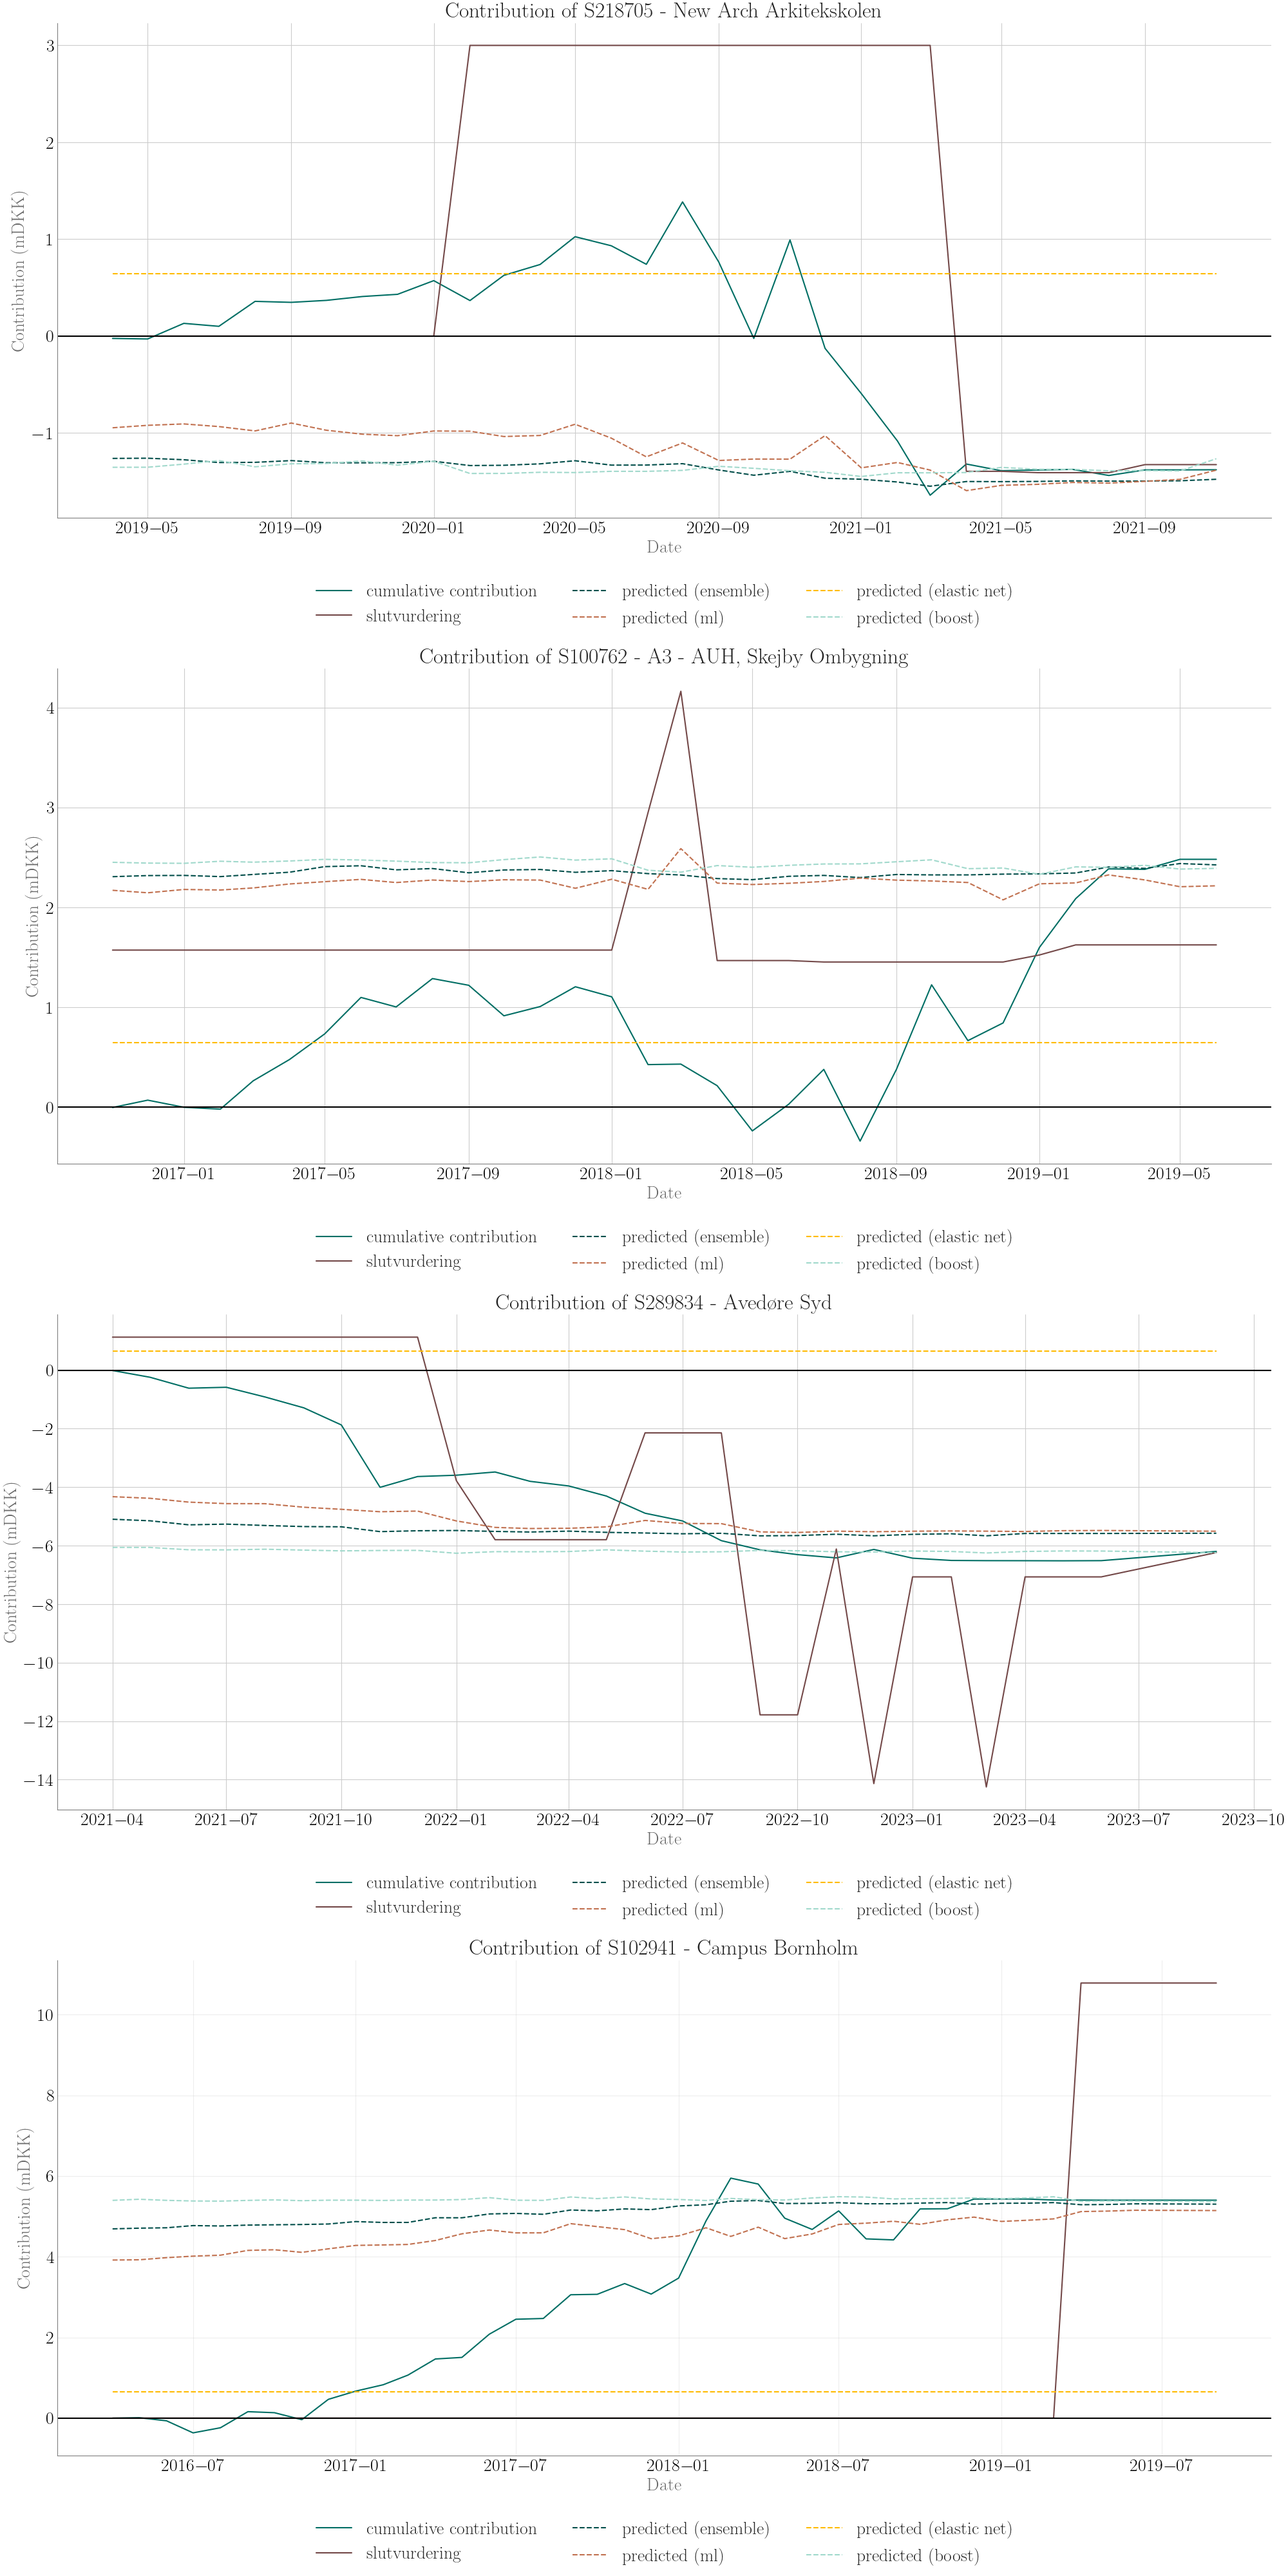
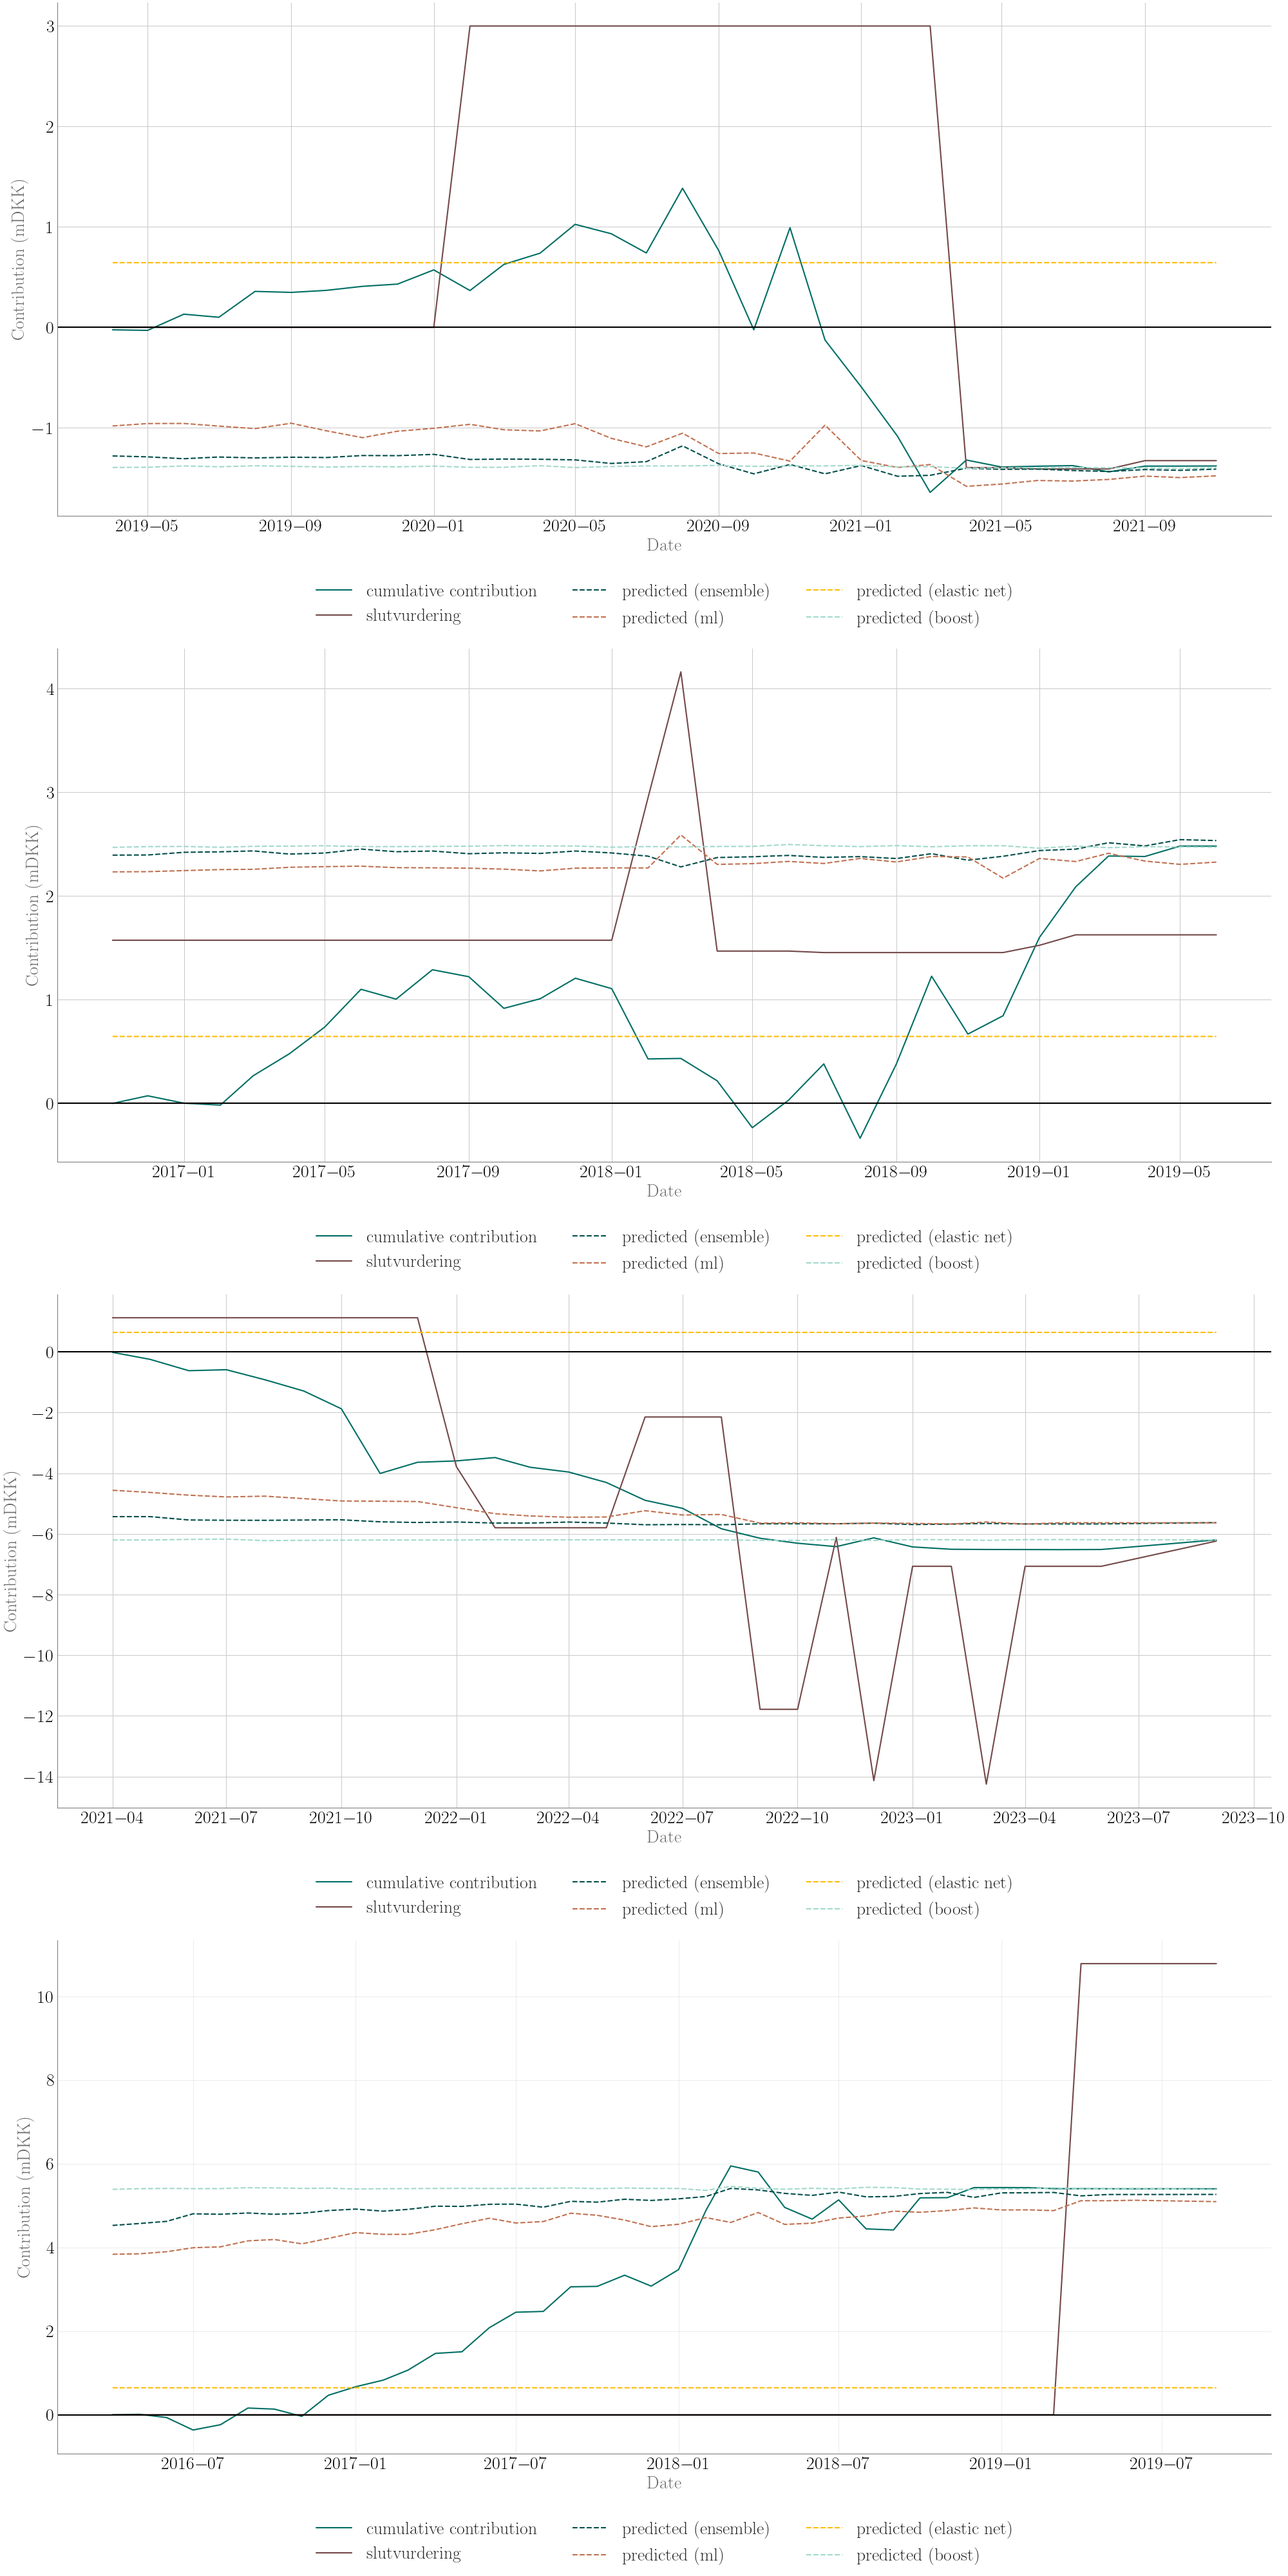
....

diff --git a/Data/Scripts/4_ML.py b/Data/Scripts/4_ML.py
@@ -675,7 +675,7 @@ for i, sJobNo in enumerate(lJob):
     ax[i].axhline(y=0, color='black', linestyle='-')
     ax[i].set_xlabel('Date')
     ax[i].set_ylabel('Contribution (mDKK)')
-    ax[i].set_title(f'Contribution of {sJobNo} - {dfDesc[dfDesc["job_no"] == sJobNo]["description"].values[0]}')
+#    ax[i].set_title(f'Contribution of {sJobNo} - {dfDesc[dfDesc["job_no"] == sJobNo]["description"].values[0]}')
     ax[i].legend(loc='upper center', bbox_to_anchor=(0.5, -0.1), ncol=3).get_frame().set_linewidth(0.0)
     plt.grid(alpha=0.35)
     plt.rcParams['axes.axisbelow'] = True
